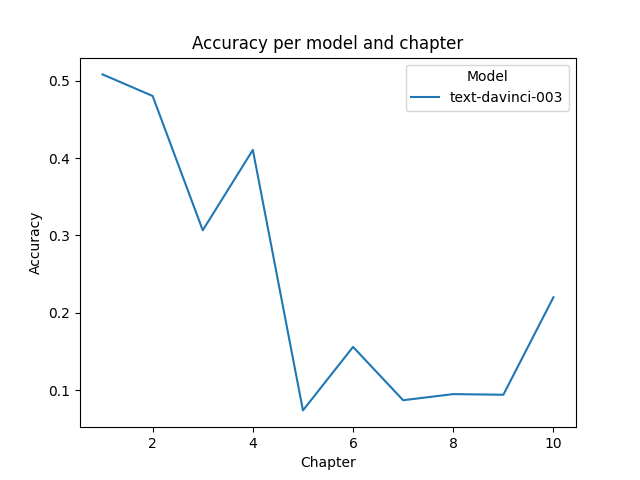
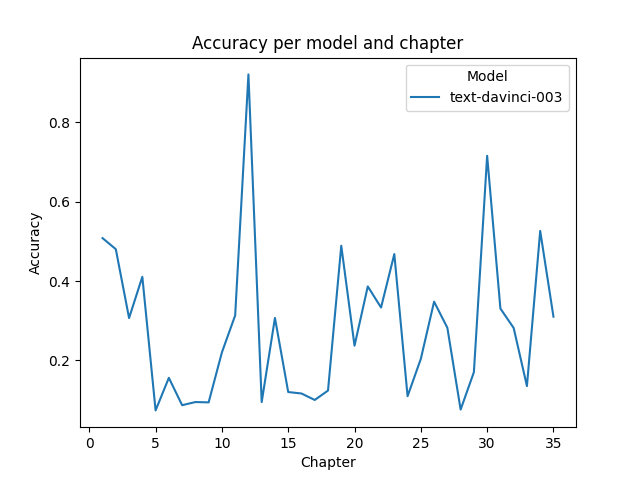
fixing chapter number bug

diff --git a/eval-model-pt3/json_to_csv.py b/eval-model-pt3/json_to_csv.py
@@ -14,6 +14,31 @@ roman_to_decimal = {
     'VIII': 8,
     'IX': 9,
     'X': 10,
+    'XI': 11,
+    'XII': 12,
+    'XIII': 13,
+    'XIV': 14,
+    'XV': 15,
+    'XVI': 16,
+    'XVII': 17,
+    'XVIII': 18,
+    'XIX': 19,
+    'XX': 20,
+    'XXI': 21,
+    'XXII': 22,
+    'XXIII': 23,
+    'XXIV': 24,
+    'XXV': 25,
+    'XXVI': 26,
+    'XXVII': 27,
+    'XXVIII': 28,
+    'XXIX': 29,
+    'XXX': 30,
+    'XXXI': 31,
+    'XXXII': 32,
+    'XXXIII': 33,
+    'XXXIV': 34,
+    'XXXV': 35
 }
 
 def create_pivot_table(df, index, columns, values): 
